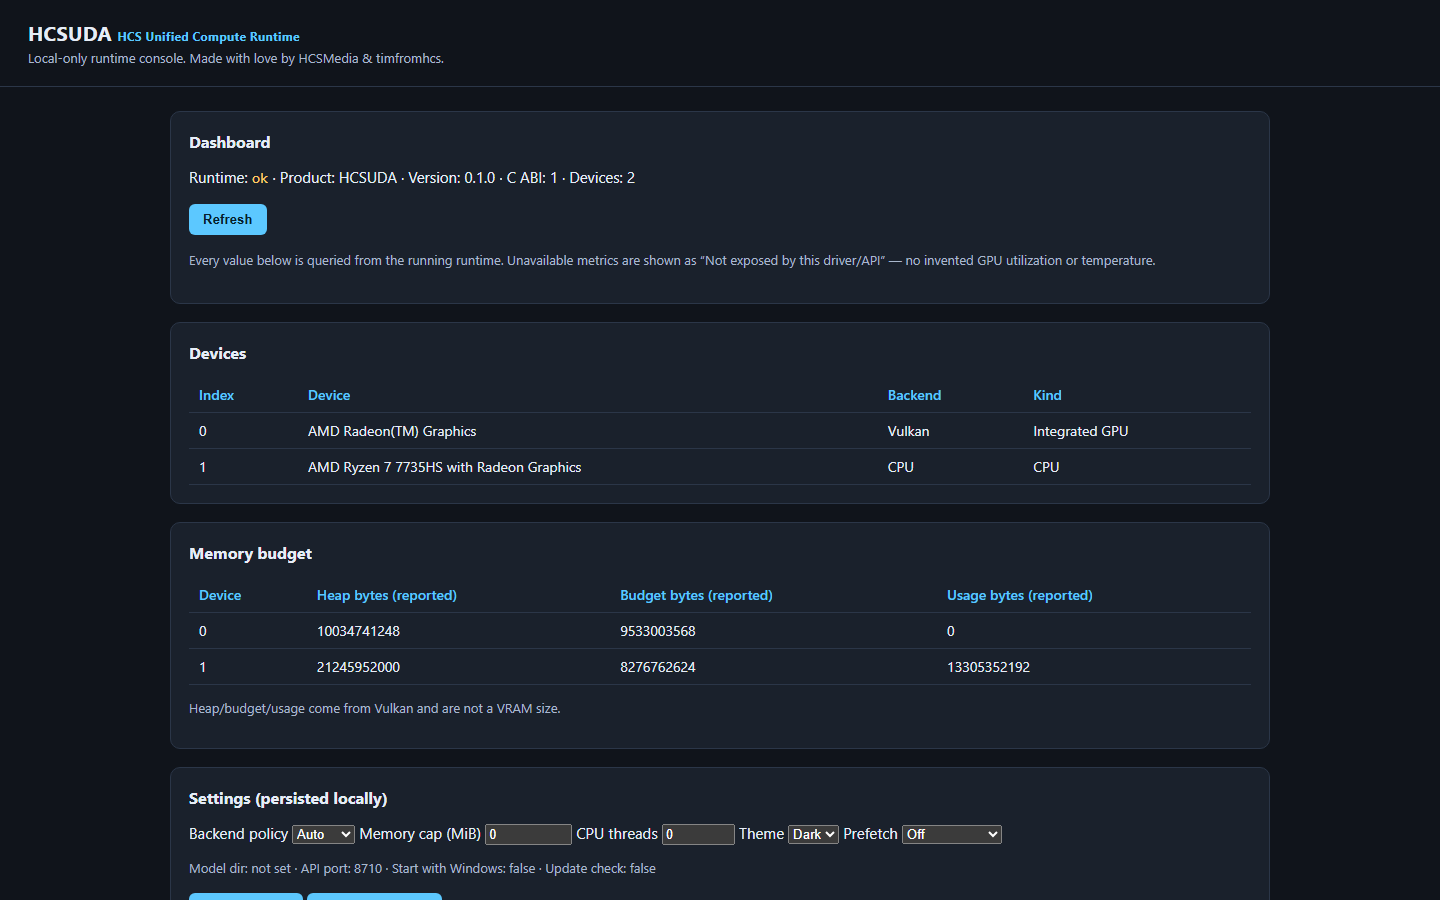
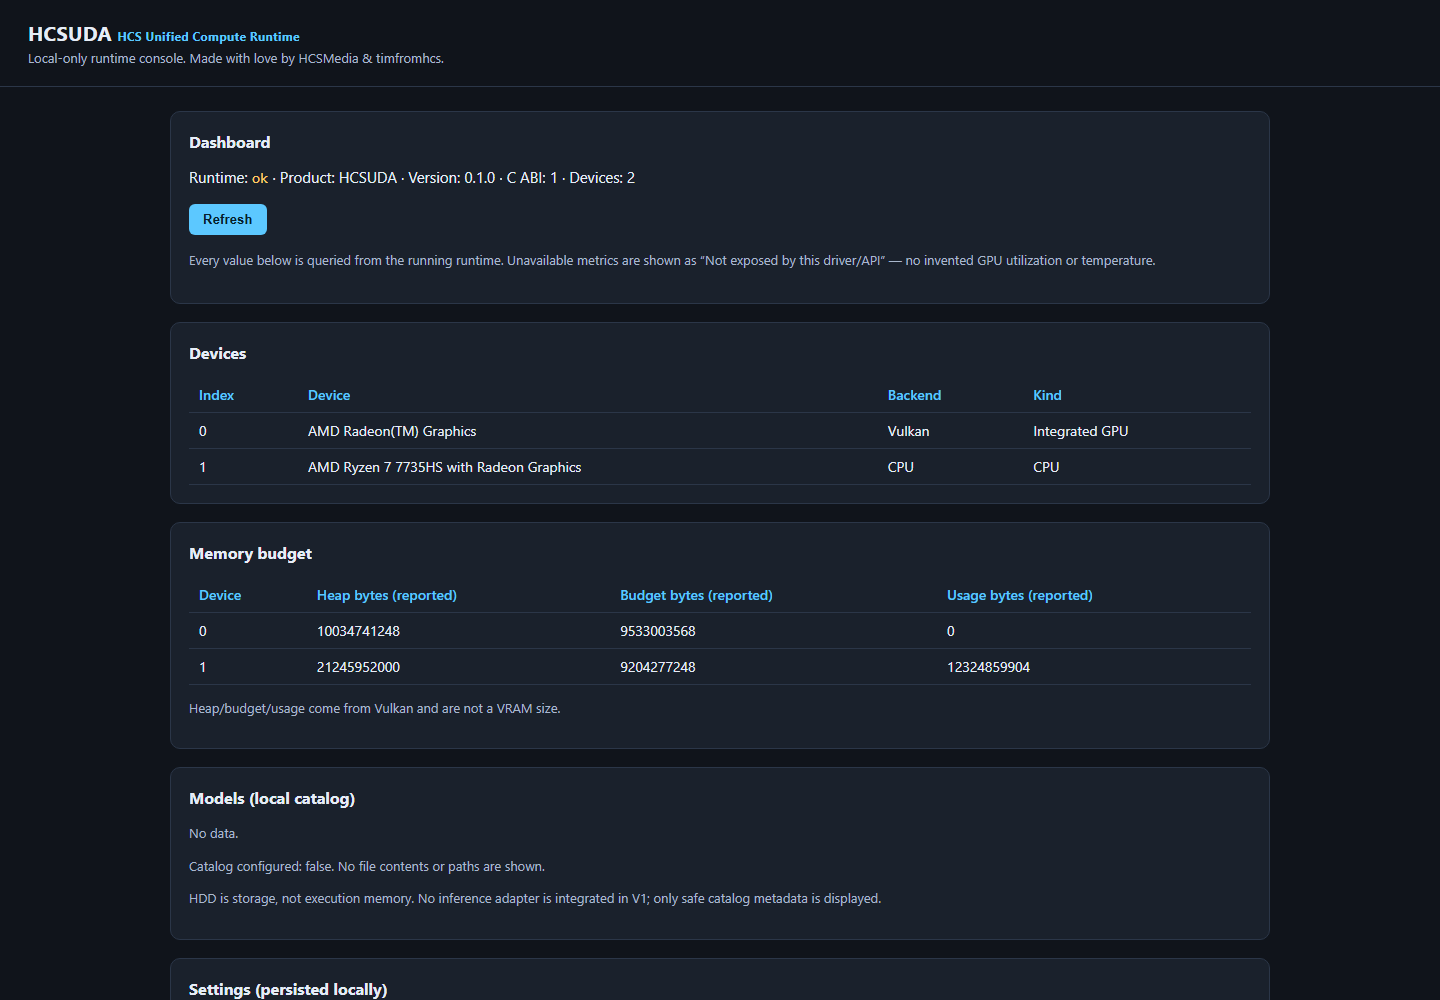
docs: refresh real UI screenshot with models section

diff --git a/docs/BUILD_LOG.md b/docs/BUILD_LOG.md
@@ -758,6 +758,9 @@ added; the table is populated only from the live service.
 powershell -File scripts\build-test-once.ps1 -> configure/build/test exit=0; 95 tests, 0 failures
 ```
 
+The README screenshot was recaptured from the live service at the updated UI (Models section
+visible, empty catalog shown honestly as "No data.").
+
 ## 2026-11-28 — Endless work iteration 6: host-free global scan
 
 Added `scan_add_offsets_f32` (GLSL + CPU + registry + SPIR-V mapping) so a global exclusive scan
